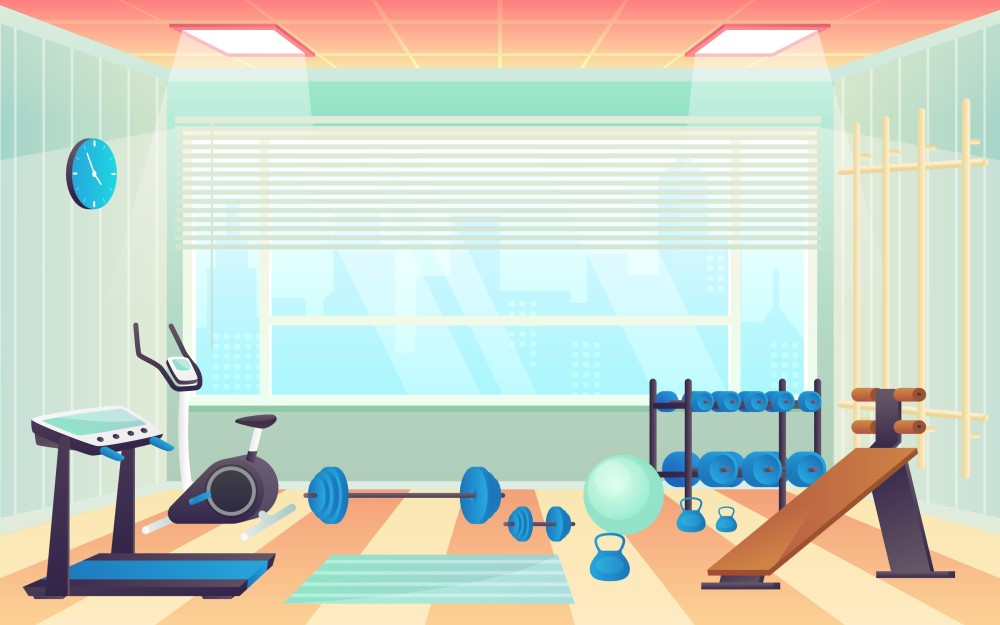
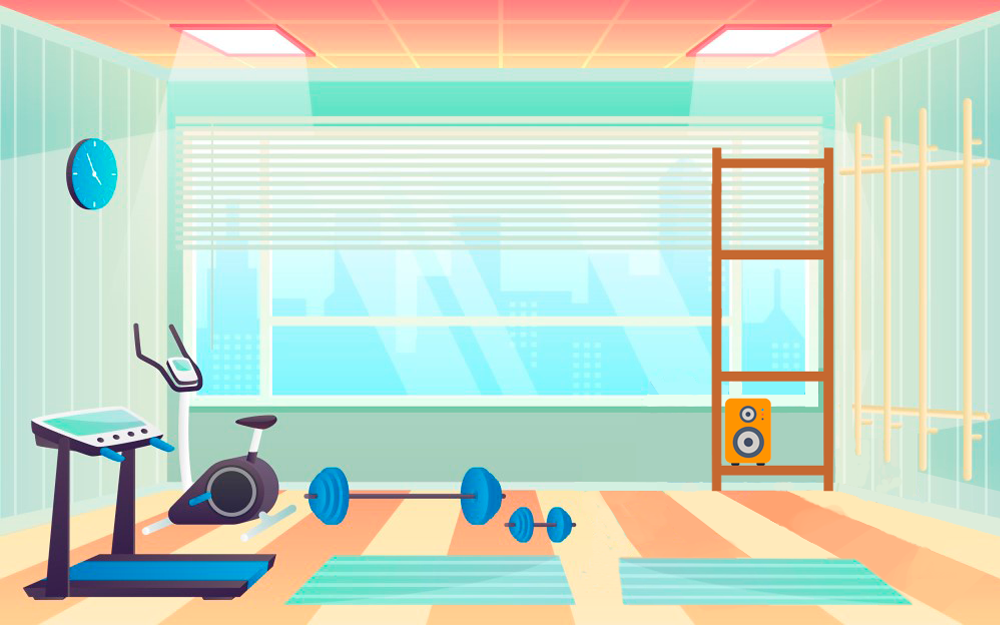
backgroud2

diff --git a/Jogo.py b/Jogo.py
@@ -15,11 +15,13 @@ comprimento = 100
 velocidade = 10
 #---------[IMAGENS]---------#
 background_image_filename = 'background.jpg'
+background_image_filename2 = 'background2.png'
 title_image_filename = 'title.svg'
 volume_image_filename = 'volume.svg'
 mutado_image_filename = 'mute.svg'
 
 background = pygame.image.load(background_image_filename).convert()
+background2 = pygame.image.load(background_image_filename2).convert()
 title = pygame.image.load(title_image_filename).convert_alpha()
 volume = pygame.image.load(volume_image_filename).convert_alpha()
 mutado = pygame.image.load(mutado_image_filename).convert_alpha()
@@ -48,14 +50,14 @@ def texto(texto, fonte, cor, surface, x, y):
 
 #----------[CLASSES]------#
 class Ponteiro(pygame.sprite.Sprite):
-    def __init__(self):
+    def __init__(self, pos_x, pos_y):
         pygame.sprite.Sprite.__init__(self)
         self.image = pygame.Surface((10,50))
         self.image.fill(RED)
         self.rect = self.image.get_rect()
         self.speedx = 0
-        self.rect.x = 125
-        self.rect.y = 400
+        self.rect.x = pos_x
+        self.rect.y = pos_y
         self.speedx = velocidade
     
     def update(self):
@@ -70,13 +72,13 @@ class Ponteiro(pygame.sprite.Sprite):
         velocidade += 2
 
 class Acerto(pygame.sprite.Sprite):
-    def __init__(self):
+    def __init__(self, pos_x, pos_y):
         pygame.sprite.Sprite.__init__(self)
         self.image = pygame.Surface((comprimento,50))
         self.image.fill(GREEN)
         self.rect = self.image.get_rect()
-        self.rect.x = 475
-        self.rect.y = 400
+        self.rect.x = pos_x
+        self.rect.y = pos_y
 
     def emagrece(self):
         global comprimento
@@ -303,34 +305,6 @@ class Menina4P3(pygame.sprite.Sprite):
         self.image = self.sprites[self.current_sprite]
 #-------------------------#
 
-#--------[OBJETOS]--------#
-barra = pygame.Rect(125, 400, 800, 50)
-pont = Ponteiro()
-acer = Acerto()
-player3 = PlayerP3(40, 40)
-player2 = PlayerP2(40, 40)
-player1 = PlayerP1(40, 40)
-menina2P3 = Menina2P3(140, 40)
-menina2P2 = Menina2P2(140, 40)
-menina2P1 = Menina2P1(140, 40)
-menina3P3 = Menina3P3(240, 40)
-menina3P2 = Menina3P2(240, 40)
-menina3P1 = Menina3P1(240, 40)
-menina4P3 = Menina4P3(340, 40)
-menina4P2 = Menina4P2(340, 40)
-menina4P1 = Menina4P1(340, 40)
-jogo_sprites = pygame.sprite.Group()
-jogo_sprites.add(acer)
-jogo_sprites.add(pont)
-jogo_sprites.add(player3)
-barra_display = pygame.Rect(125, 400, 800, 50)
-pont_display = Ponteiro()
-acer_display = Acerto()
-como_jogar_sprites = pygame.sprite.Group()
-como_jogar_sprites.add(player3)
-como_jogar_sprites.add(acer_display)
-como_jogar_sprites.add(pont_display)
-#-------------------------#
 click = False
 
 
@@ -408,6 +382,14 @@ def mute(status):
 
 
 def jogo():
+    barra = pygame.Rect(125, 400, 800, 50)
+    acer = Acerto(125, 400)
+    pont = Ponteiro(475, 400)
+    player1 = PlayerP1(40, 40)
+    jogo_sprites = pygame.sprite.Group()
+    jogo_sprites.add(acer)
+    jogo_sprites.add(pont)
+    jogo_sprites.add(player1)
     # game loop
     running = True
     while running:
@@ -444,10 +426,6 @@ def jogo():
             if event.type == QUIT:
                 pygame.quit()
                 sys.exit()
-            if event.type == KEYDOWN:
-                if event.key == K_ESCAPE:
-                    pygame.quit()
-                    sys.exit()
             if event.type == MOUSEBUTTONDOWN:
                 if event.button == 1:
                     click = True
@@ -459,11 +437,19 @@ def jogo():
 
 
 def como_jogar():
+    barra_display = pygame.Rect(125, 550, 800, 50)
+    player_display = PlayerP3(50, 30)
+    pont_display = Ponteiro(125, 550)
+    acer_display = Acerto(475, 550)
+    como_jogar_sprites = pygame.sprite.Group()
+    como_jogar_sprites.add(player_display)
+    como_jogar_sprites.add(acer_display)
+    como_jogar_sprites.add(pont_display)
     running = True
     while running:
         screen.fill((0, 0, 0))
-        screen.blit(background, (0, 0))
-        pygame.draw.rect(screen, (169, 169, 169), barra)
+        screen.blit(background2, (0, 0))
+        pygame.draw.rect(screen, (169, 169, 169), barra_display)
         texto('Como Jogar', fonte, (255, 255, 255), screen, 20, 20)
         for event in pygame.event.get():
             if event.type == QUIT:
